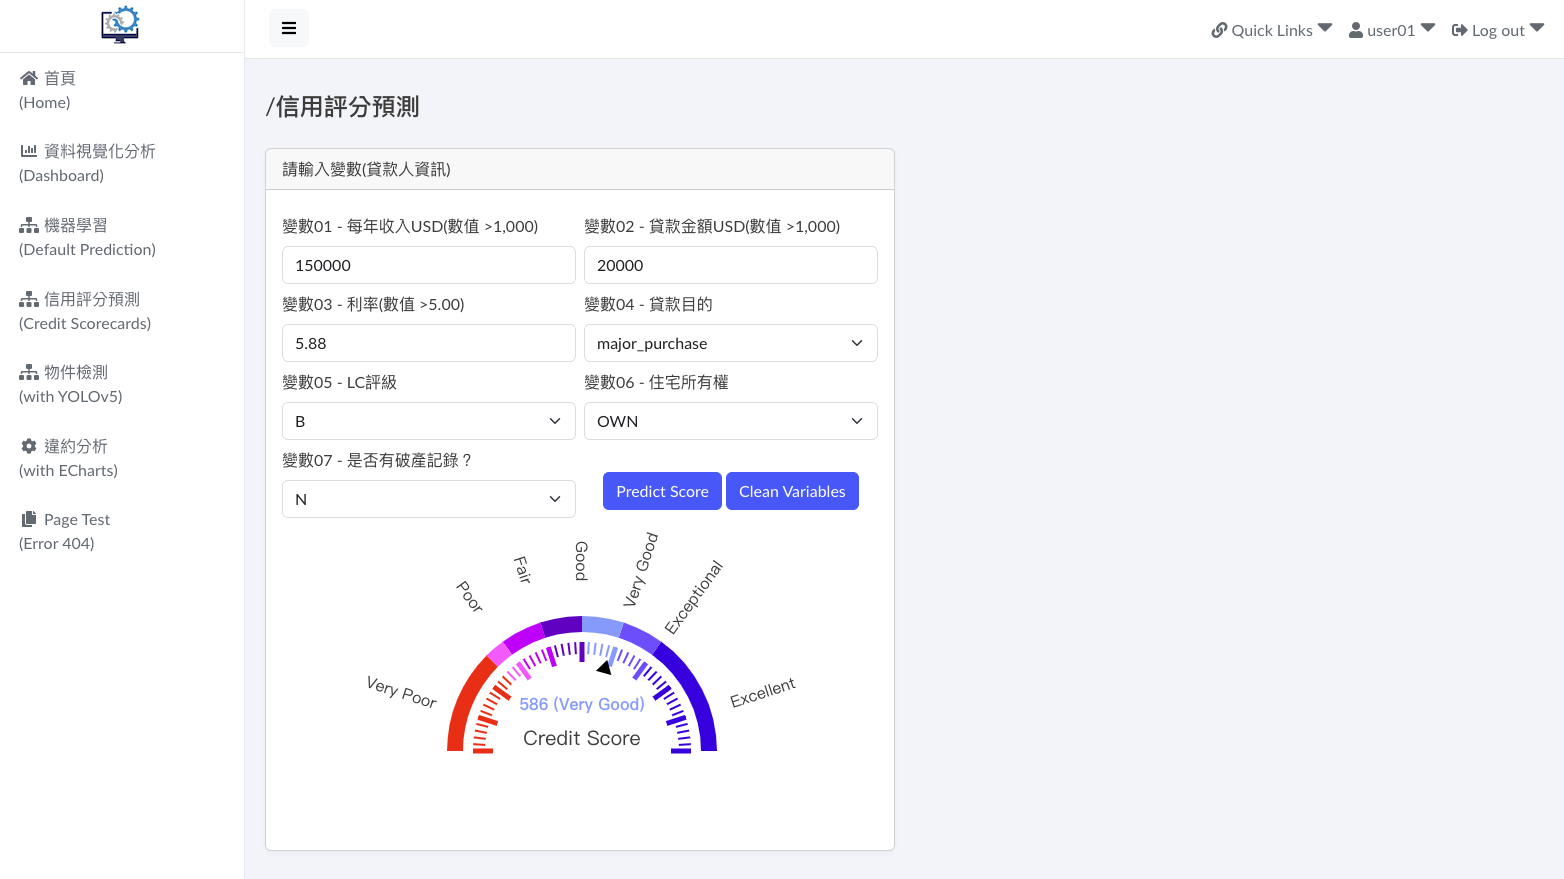
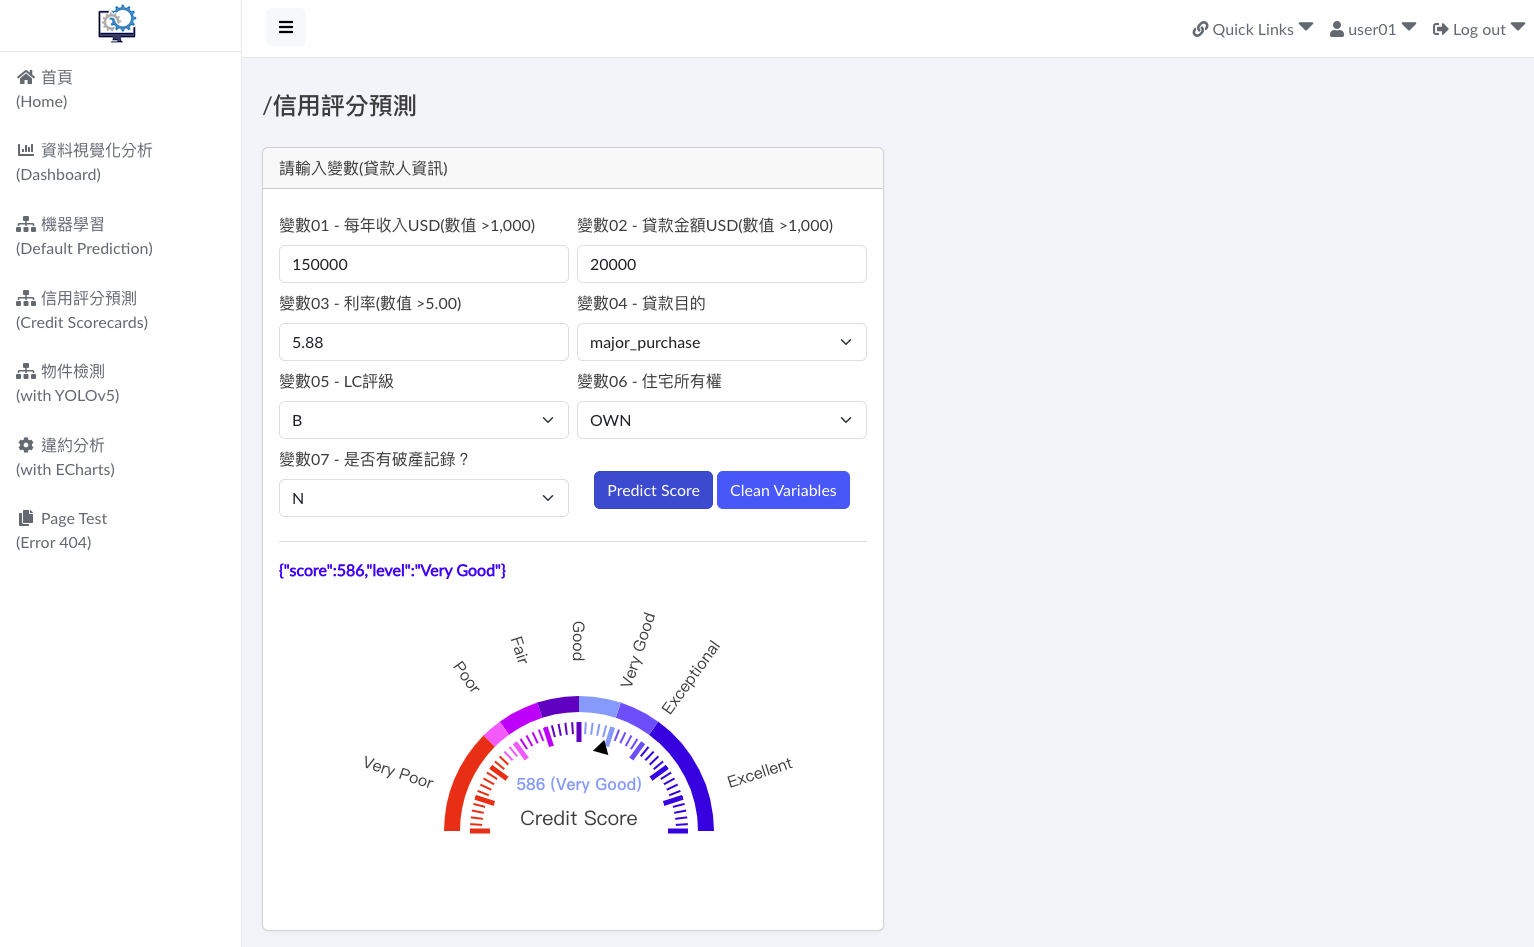
revise page scorecard_01

diff --git a/DemoDjango/dj_web/static/assets/js/my_functions_02.js b/DemoDjango/dj_web/static/assets/js/my_functions_02.js
@@ -1,16 +1,17 @@
 // Scorecard - clean input and output
 function scorecard_clean()
 {        
-   document.getElementById("annual_inc_bin").value="";
-   document.getElementById("loan_amnt_bin").value="";
-   document.getElementById("int_rate_bin").value="";  
-   document.querySelector("#purpose").value="";
-   document.querySelector("#grade").value="";
-   document.querySelector("#home_ownership").value="";
-   document.querySelector("#pub_rec_bankruptcies").value="";
-   var dom = document.getElementById("chart_container");
-   var myChart = echarts.init(dom);
-   myChart.clear();   
+    document.getElementById("annual_inc_bin").value="";
+    document.getElementById("loan_amnt_bin").value="";
+    document.getElementById("int_rate_bin").value="";  
+    document.querySelector("#purpose").value="";
+    document.querySelector("#grade").value="";
+    document.querySelector("#home_ownership").value="";
+    document.querySelector("#pub_rec_bankruptcies").value="";
+    document.getElementById("scorecard_outputs").innerHTML="";  
+    var dom = document.getElementById("chart_container");
+    var myChart = echarts.init(dom);
+    myChart.clear();     
 }
 
 // Scorecard - submit form data to API
@@ -42,6 +43,9 @@ function scorecard_predict()
     }).then(function (response){              
         let obj = response.data; 
         console.log("obj \n"+obj.score.toString()+"\n"+obj.rating);          
+        let outputs = JSON.stringify({score: parseInt(obj.score), 
+                                      level: obj.rating});                                      
+        document.getElementById("scorecard_outputs").innerHTML=outputs;          
         guage_chart(obj.score, obj.rating);           
     })                                        
 }

diff --git a/DemoDjango/dj_web/templates/scorecard.html b/DemoDjango/dj_web/templates/scorecard.html
@@ -87,10 +87,11 @@
                     </div>                                     
                    
                     <div id="scorecard_predict_result" style="color:blue;"></div>
-
+                    <hr style="border-color:gray;">
+                    <div id="scorecard_outputs" style="color:blue; font-weight: bold;"></div><br>
                     <div class="mb-2">
                         <div id="chart_container" style="width:600px;min-height:300px;"></div>                      
-                    </div>                                                                                                 
+                    </div>                                          
             </div>            
         </div>            
     </div>   

diff --git a/README.md b/README.md
@@ -47,7 +47,7 @@
 
 (5)選單四 - 信用評分預測(Credit Scorecards) 
 
-- 填寫變數資料送出便開始調用模型API運算，預測結果(分數、評級)以儀表盤呈現。此處Credit Scorecards之模型訓練及推論為另一專案(credit_scorecards_demo_01  [詳見](<https://github.com/qinglian1105/credit_scorecards_demo_01/tree/main>))。
+- 填寫變數資料送出便開始調用模型API運算，預測結果(分數、評級)於下方以藍色文字及儀表盤呈現。此處Credit Scorecards之模型訓練及推論為另一專案(credit_scorecards_demo_01  [詳見](<https://github.com/qinglian1105/credit_scorecards_demo_01/tree/main>))。
 
 ![avatar](./README_png/page_scorecard.png)
 
@@ -67,11 +67,12 @@
 - FastAPI建立不同功能的API接口，資料來自二個資料庫PostgreSQL及MongoDB，如："/api/default_info取得違約及非違約人數及金額，其他接口詳見程式碼。
 
 ![avatar](./README_png/page_api.png)
+
 <br>
 
-***
+---
 
-#### References
+#### **References**
 
 [1] [Getting started with Django](<https://www.djangoproject.com/start/>)
 
